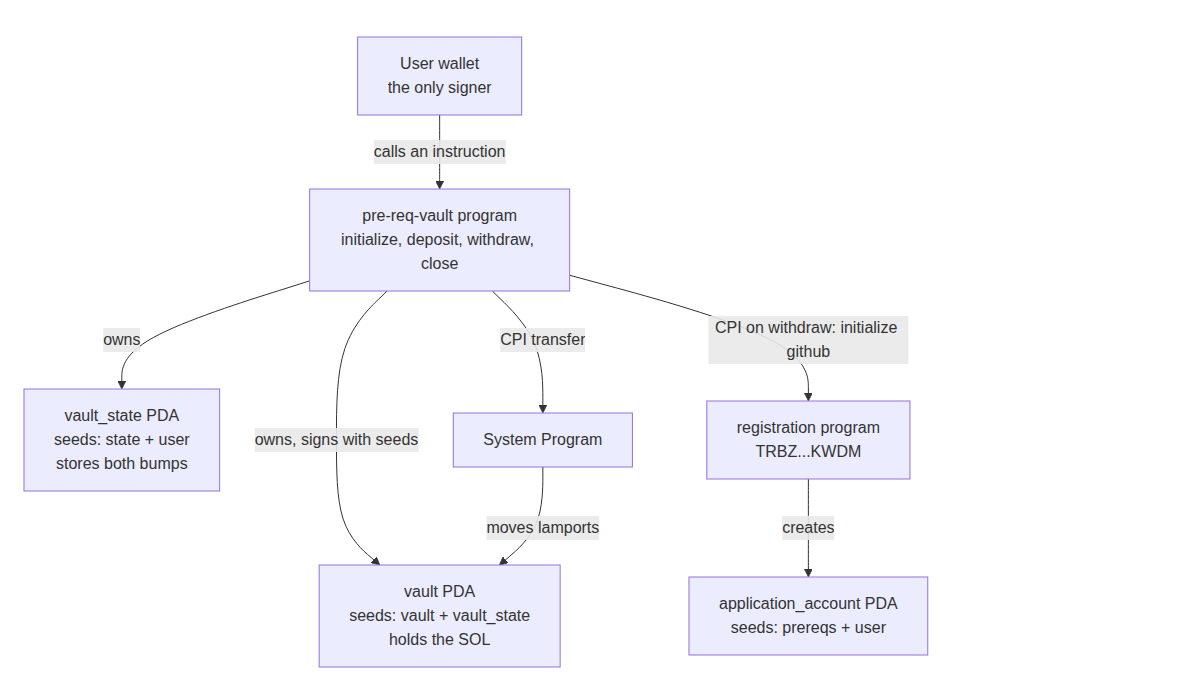
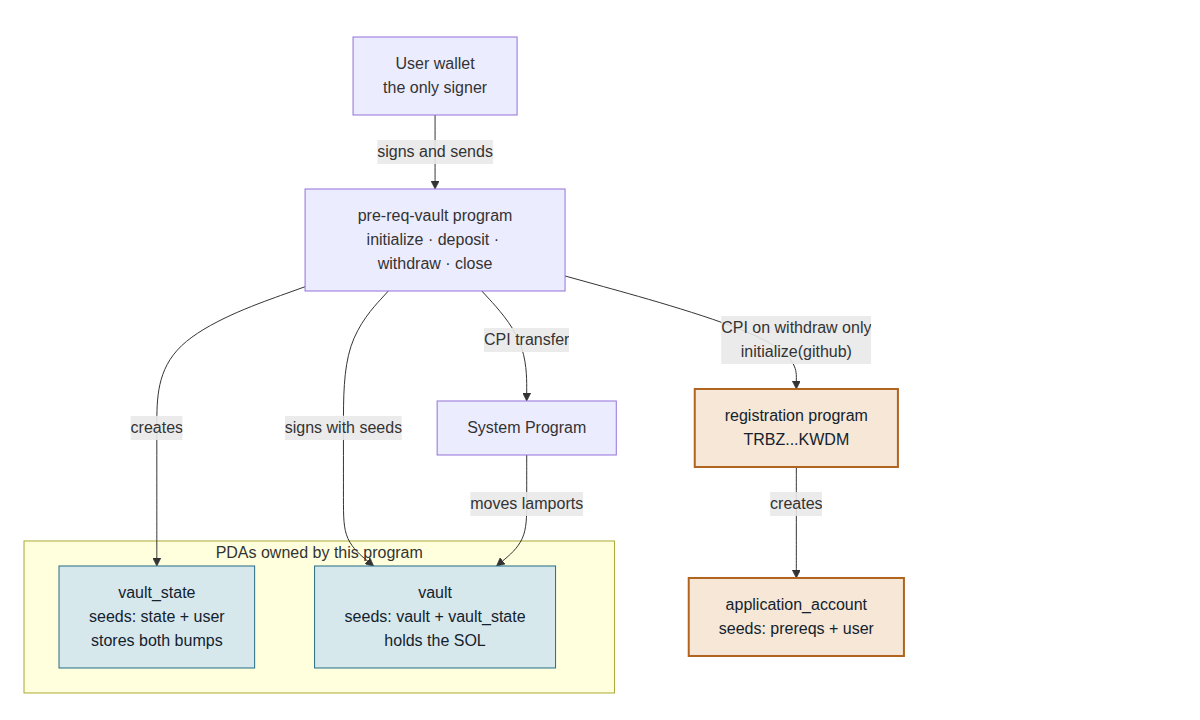
Group the owned PDAs and colour the CPI path in the diagram

diff --git a/README.md b/README.md
@@ -11,20 +11,29 @@ Anchor SOL vault. `withdraw` CPIs Turbin3's registration program and records a G
 ```mermaid
 flowchart TD
     U["User wallet<br/>the only signer"]
-    P["pre-req-vault program<br/>initialize, deposit, withdraw, close"]
-    VS["vault_state PDA<br/>seeds: state + user<br/>stores both bumps"]
-    V["vault PDA<br/>seeds: vault + vault_state<br/>holds the SOL"]
+    P["pre-req-vault program<br/>initialize · deposit · withdraw · close"]
+
+    subgraph owned ["PDAs owned by this program"]
+        VS["vault_state<br/>seeds: state + user<br/>stores both bumps"]
+        V["vault<br/>seeds: vault + vault_state<br/>holds the SOL"]
+    end
+
     SP["System Program"]
     REG["registration program<br/>TRBZ...KWDM"]
-    APP["application_account PDA<br/>seeds: prereqs + user"]
+    APP["application_account<br/>seeds: prereqs + user"]
 
-    U -->|calls an instruction| P
-    P -->|owns| VS
-    P -->|owns, signs with seeds| V
+    U -->|signs and sends| P
+    P -->|creates| VS
+    P -->|signs with seeds| V
     P -->|CPI transfer| SP
     SP -->|moves lamports| V
-    P -->|CPI on withdraw: initialize github| REG
+    P -->|"CPI on withdraw only<br/>initialize(github)"| REG
     REG -->|creates| APP
+
+    classDef cpi fill:#f6e7d6,stroke:#b0641f,stroke-width:2px,color:#13222e
+    classDef pda fill:#d7e8ed,stroke:#226c84,color:#13222e
+    class REG,APP cpi
+    class VS,V pda
 ```
 
 Rendered copy for linking: [`docs/diagram.png`](docs/diagram.png).
